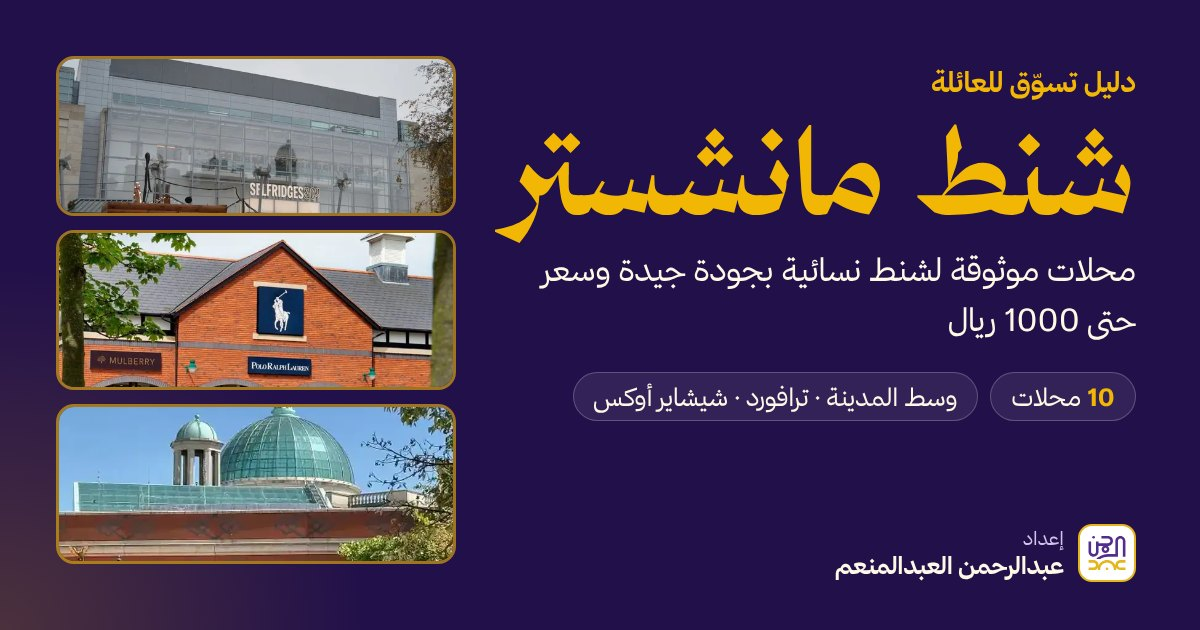
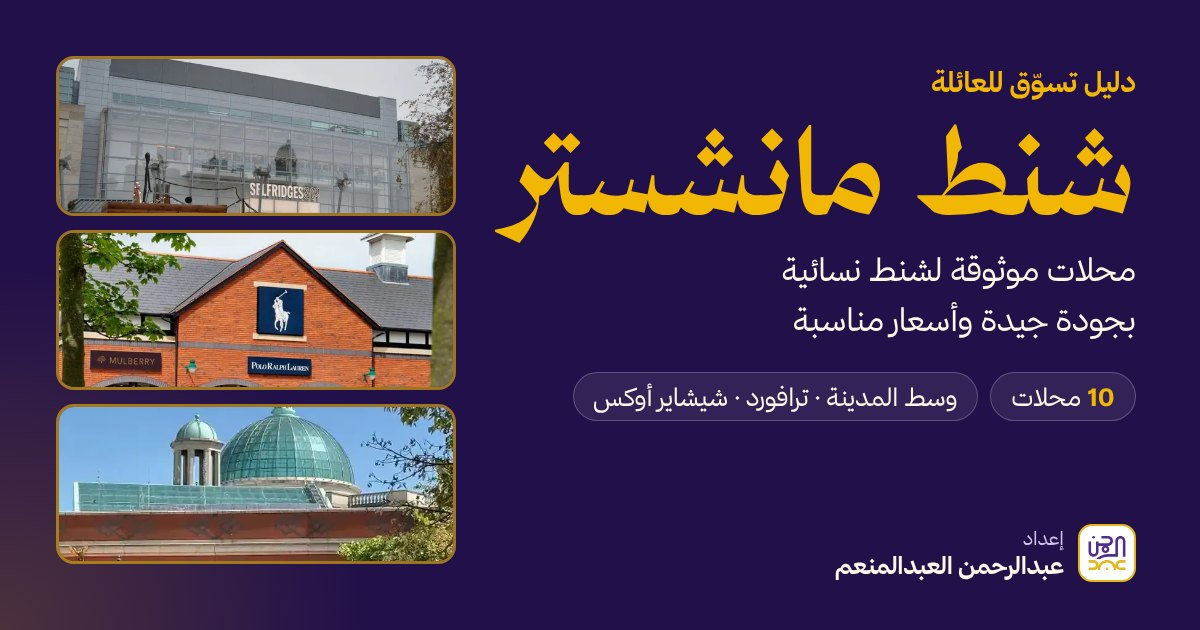
Bags page: drop the 1000 SAR cap from visible text; neutral price tiers and plain currency converter
Claude-Session: https://claude.ai/code/session_01QH7mzZJjC2cRmrbhNPuopA

Changed region(s): [[0.6475, 0.4825, 0.9558, 0.5429], [0.4317, 0.4222, 0.6475, 0.4524]]

diff --git a/bags/index.html b/bags/index.html
@@ -5,17 +5,17 @@
 <meta name="viewport" content="width=device-width,initial-scale=1,viewport-fit=cover">
 <meta name="robots" content="noindex,nofollow">
 <title>شنط مانشستر</title>
-<meta name="description" content="دليل عائلي لمحلات الشنط النسائية في مانشستر بجودة جيدة وسعر لا يتجاوز 1000 ريال: الأسعار، وكلام الناس، والصور، ورابط الموقع.">
+<meta name="description" content="دليل عائلي لمحلات الشنط النسائية في مانشستر بجودة جيدة وأسعار مناسبة: الأسعار، وكلام الناس، والصور، ورابط الموقع.">
 <meta property="og:title" content="شنط مانشستر · دليل للعائلة">
-<meta property="og:description" content="محلات موثوقة لشنط نسائية بجودة جيدة وسعر حتى 1000 ريال، في وسط مانشستر وترافورد سنتر ومنافذ شيشاير أوكس.">
+<meta property="og:description" content="محلات موثوقة لشنط نسائية بجودة جيدة وأسعار مناسبة، في وسط مانشستر وترافورد سنتر ومنافذ شيشاير أوكس.">
 <meta property="og:type" content="website">
 <meta property="og:url" content="https://alabdmn3m.github.io/manchester/bags/">
-<meta property="og:image" content="https://alabdmn3m.github.io/manchester/bags/og.jpg?v=1">
-<meta property="og:image:secure_url" content="https://alabdmn3m.github.io/manchester/bags/og.jpg?v=1">
+<meta property="og:image" content="https://alabdmn3m.github.io/manchester/bags/og.jpg?v=2">
+<meta property="og:image:secure_url" content="https://alabdmn3m.github.io/manchester/bags/og.jpg?v=2">
 <meta property="og:image:type" content="image/jpeg">
 <meta property="og:image:width" content="1200">
 <meta property="og:image:height" content="630">
-<meta property="og:image:alt" content="غلاف صفحة شنط مانشستر: محلات بجودة جيدة وسعر حتى 1000 ريال">
+<meta property="og:image:alt" content="غلاف صفحة شنط مانشستر: محلات بجودة جيدة وأسعار مناسبة">
 <meta property="og:site_name" content="شنط مانشستر">
 <meta name="twitter:card" content="summary_large_image">
 <meta property="og:locale" content="ar_SA">
@@ -233,7 +233,7 @@ footer{background:var(--hero);color:var(--hero-ink);padding-block:26px}
     <div class="hero-top">
       <div>
         <div class="eyebrow"><b>دليل تسوّق للعائلة</b><span>مانشستر · نوفمبر <span class="num">2026</span></span></div>
-        <h1 class="title">شنط مانشستر<small>محلات موثوقة لشنط نسائية بجودة جيدة وسعر لا يتجاوز <span class="num">1000</span> ريال (نحو <span class="num">£201</span>)، في وسط المدينة وترافورد سنتر ومنافذ شيشاير أوكس.</small></h1>
+        <h1 class="title">شنط مانشستر<small>محلات موثوقة لشنط نسائية بجودة جيدة وأسعار مناسبة، في وسط المدينة وترافورد سنتر ومنافذ شيشاير أوكس.</small></h1>
         <a class="byline" href="#sign" aria-label="إعداد: عبدالرحمن العبدالمنعم"><span class="lgtile" aria-hidden="true"><svg viewBox="318 297 444 413"><use href="#lg-art"/></svg></span><span class="by-t"><small>إعداد</small><b>عبدالرحمن العبدالمنعم</b></span></a>
       </div>
       <svg class="bagart" viewBox="0 0 200 200" role="img" aria-label="شنطة">
@@ -245,7 +245,6 @@ footer{background:var(--hero);color:var(--hero-ink);padding-block:26px}
       </svg>
     </div>
     <div class="facts">
-      <span>الحد: <b class="num">1000</b> ريال ≈ <b class="num">£201</b></span>
       <span>الصرف: <b class="num">£1 = 4.97</b> ريال</span>
       <span><b class="num">10</b> محلات في <b class="num">3</b> مناطق</span>
       <span>آخر تحديث: <b class="num">18</b> نوفمبر <span class="num">2026</span></span>
@@ -258,10 +257,10 @@ footer{background:var(--hero);color:var(--hero-ink);padding-block:26px}
     <div class="sh"><h2 id="v-h">الخلاصة</h2><p>إن كان وقتكم ضيقًا فهذه الثلاثة أولًا</p></div>
     <div class="verdict">
       <div class="box pick"><span class="rk num">1</span><h3>لونشان «لو بلياج» في سيلفريدجز</h3><p class="why">أوضح قيمة في وسط المدينة: شنطة عملية خفيفة تُطوى، سعرها ثابت ومعلن، والمحل على بعد مشي.</p><div class="pr">من <span class="num">£85</span> إلى <span class="num">£145</span> (نحو <span class="num">420</span> إلى <span class="num">720</span> ريال)</div></div>
-      <div class="box pick"><span class="rk num">2</span><h3>رادلي في منفذ شيشاير أوكس</h3><p class="why">ماركة إنجليزية بجلد جيد، وأعلى تقييم في القائمة (<span class="num">4.6</span>)، ومعظم شنطها المخفضة ضمن الحد.</p><div class="pr">غالبًا من <span class="num">£100</span> إلى <span class="num">£200</span> مخفّضة</div></div>
-      <div class="box pick"><span class="rk num">3</span><h3>منافذ كوتش ومايكل كورس وكيت سبيد</h3><p class="why">في شيشاير أوكس أيضًا. الماركات الأمريكية فوق الحد بسعرها الكامل، ولا تدخل الميزانية إلا بخصم المنافذ.</p><div class="pr">بعضها ضمن الحد، فقارن قبل الشراء</div></div>
+      <div class="box pick"><span class="rk num">2</span><h3>رادلي في منفذ شيشاير أوكس</h3><p class="why">ماركة إنجليزية بجلد جيد، وأعلى تقييم في القائمة (<span class="num">4.6</span>)، وأسعارها المخفّضة مناسبة.</p><div class="pr">غالبًا من <span class="num">£100</span> إلى <span class="num">£200</span> مخفّضة</div></div>
+      <div class="box pick"><span class="rk num">3</span><h3>منافذ كوتش ومايكل كورس وكيت سبيد</h3><p class="why">في شيشاير أوكس أيضًا. الماركات الأمريكية أوفر بكثير في المنافذ منها في المحلات العادية.</p><div class="pr">خصومات متفاوتة، فقارنوا قبل الشراء</div></div>
     </div>
-    <div class="avoid"><svg class="ico"><use href="#i-alert"/></svg><div><b>تنبيه:</b> شنط كوتش ومايكل كورس بسعرها الكامل في وسط المدينة وترافورد تبدأ غالبًا من <span class="num">£214</span> إلى <span class="num">£230</span> (أكثر من <span class="num">1060</span> ريال)، فهي فوق الحد إلا في التخفيضات. ومَلبري فوق الحد حتى في المنفذ.</div></div>
+    <div class="avoid"><svg class="ico"><use href="#i-alert"/></svg><div><b>للمقارنة:</b> شنط كوتش ومايكل كورس بسعرها الكامل في وسط المدينة وترافورد تبدأ غالبًا من <span class="num">£214</span> إلى <span class="num">£230</span>، والمنافذ أوفر منها. ومَلبري أعلى سعرًا حتى في المنفذ.</div></div>
   </section>
 
   <section aria-labelledby="r-h">
@@ -270,21 +269,20 @@ footer{background:var(--hero);color:var(--hero-ink);padding-block:26px}
   </section>
 
   <section aria-labelledby="c-h">
-    <div class="sh"><h2 id="c-h">حاسبة الميزانية</h2><p>اكتبوا سعر البطاقة بالجنيه</p></div>
+    <div class="sh"><h2 id="c-h">محوّل العملة</h2><p>اكتبوا سعر البطاقة بالجنيه</p></div>
     <div class="box conv">
       <label for="gbp">السعر £</label>
       <input id="gbp" type="number" inputmode="decimal" min="0" step="1" value="145">
       <span>=</span><output id="sar" for="gbp" class="num">721 ريال</output>
-      <div class="bar" id="bar"><i></i></div>
-      <p class="hint" id="hint">ضمن الحد، ويتبقى <span class="num">279</span> ريال.</p>
+      <p class="hint">بسعر <span class="num">£1 = 4.97</span> ريال؛ البطاقات البنكية تضيف عادة <span class="num">1</span> إلى <span class="num">3</span>%.</p>
     </div>
   </section>
 
   <section aria-labelledby="s-h">
-    <div class="sh"><h2 id="s-h">المحلات</h2><p>مرتبة من الأنسب للميزانية</p></div>
+    <div class="sh"><h2 id="s-h">المحلات</h2><p>مرتبة من الأوفر سعرًا</p></div>
     <div class="tools" role="group" aria-label="تصفية المحلات">
       <div class="chips" id="areaChips"><span class="lbl">المكان:</span></div>
-      <div class="chips" id="fitChips"><span class="lbl">الميزانية:</span><span class="count" id="count" aria-live="polite"></span></div>
+      <div class="chips" id="fitChips"><span class="lbl">السعر:</span><span class="count" id="count" aria-live="polite"></span></div>
     </div>
     <div class="grid" id="grid"></div>
   </section>
@@ -306,7 +304,7 @@ footer{background:var(--hero);color:var(--hero-ink);padding-block:26px}
     <details class="box">
       <summary id="d-h">عن البيانات والمصادر</summary>
       <ul class="src-list">
-        <li>الحد <span class="num">1000</span> ريال محسوب بسعر <span class="num">4.97</span> ريال للجنيه (سعر السوق في 13 نوفمبر 2026، كما في دليل مانشستر). البطاقات البنكية تضيف عادة <span class="num">1</span> إلى <span class="num">3</span>%.</li>
+        <li>التحويل للريال بسعر <span class="num">4.97</span> ريال للجنيه (سعر السوق في 13 نوفمبر 2026، كما في دليل مانشستر). البطاقات البنكية تضيف عادة <span class="num">1</span> إلى <span class="num">3</span>%.</li>
         <li>التقييم وعدد المراجعات ومواعيد العمل من خرائط Google في <span class="num">18</span> نوفمبر <span class="num">2026</span>، و«كلام الناس» ملخص بتصرف من المراجعات.</li>
         <li>الأسعار من مواقع الماركات والمتاجر في <span class="num">18</span> نوفمبر <span class="num">2026</span>: <a href="https://www.longchamp.com/gb/en/le-pliage/" target="_blank" rel="noopener">لونشان</a>، <a href="https://www.michaelkors.co.uk/women/handbags/" target="_blank" rel="noopener">مايكل كورس</a>، <a href="https://www.kurtgeiger.com/women/bags" target="_blank" rel="noopener">كيرت جايجر</a>، <a href="https://www.houseoffraser.co.uk/bags-and-luggage/handbags/radley" target="_blank" rel="noopener">رادلي لدى House of Fraser</a>، <a href="https://www.pricerunner.com/sp/coach-tabby.html" target="_blank" rel="noopener">كوتش (PriceRunner)</a>، <a href="https://www.mcarthurglen.com/en/outlets/uk/designer-outlet-cheshire-oaks/offers/kate-spade-product-2/" target="_blank" rel="noopener">عرض كيت سبيد في شيشاير أوكس</a>، <a href="https://www.tkmaxx.com/uk/en/how-we-do-it" target="_blank" rel="noopener">تي كي ماكس</a>.</li>
         <li>أسعار المنافذ تتغير يوميًا ولا تنشرها الماركات، فما وُصف بـ«تقدير» مأخوذ من المراجعات والعروض المنشورة لا من قائمة أسعار.</li>
@@ -326,10 +324,10 @@ footer{background:var(--hero);color:var(--hero-ink);padding-block:26px}
 
 <script>
 (() => {
-  const RATE = 4.97, LIMIT = 1000;
+  const RATE = 4.97;
   const sar = g => Math.round(g * RATE);
   const AREAS = { city: 'وسط المدينة', trafford: 'ترافورد سنتر', oaks: 'منافذ شيشاير أوكس' };
-  const FIT = { in: 'ضمن الميزانية', part: 'بعضها ضمن الميزانية', over: 'غالبًا فوق الميزانية' };
+  const FIT = { in: 'سعر في المتناول', part: 'أسعار متفاوتة', over: 'سعر أعلى' };
   const MAP = id => `https://www.google.com/maps/search/?api=1&query=Google&query_place_id=${id}`;
   const IMG = {
     selfridges: { f: 'e902248eed96', c: 'سيلفريدجز في Exchange Square', a: 'N Chadwick', l: 'CC BY-SA 2.0', u: 'https://commons.wikimedia.org/wiki/File:Selfridges,_Exchange_Square_-_geograph.org.uk_-_5684368.jpg', p: '57% 50%' },
@@ -361,7 +359,7 @@ footer{background:var(--hero);color:var(--hero-ink);padding-block:26px}
       hours: 'مواعيد المركز: الإثنين إلى الجمعة 10:00–21:00، والسبت 09:00–21:00، والأحد 09:00–19:00', go: 'نحو ساعة بالسيارة أو أوبر (قرابة 60 كم)', addr: 'Kinsey Road, Ellesmere Port', place: 'ChIJQZ5FEP_dekgR3Hz2LHuHmK4', site: 'https://www.radleylondon.com/' },
     { id: 'kurt', ll: [53.484223,-2.241173], hrs: [[690,1050],[540,1200],[540,1200],[540,1200],[540,1200],[540,1200],[540,1140]], short: 'Kensington الصغيرة من £169 إلى £189', ar: 'كيرت جايجر', en: 'Kurt Geiger London · Arndale', area: 'city', fit: 'part', ord: 4, img: 'arndale',
       rate: [3.2, 28],
-      price: '9 من أول 15 شنطة في الموقع ضمن الحد: <b>Kensington الصغيرة</b> من <span class="num">£169</span> إلى <span class="num">£189</span>، وChelsea بـ<span class="num">£159</span>. والكبيرة حتى <span class="num">£329</span>.', psrc: 'موقع كيرت جايجر الرسمي', pv: 'مؤكد',
+      price: 'أكثر شنطه بين <span class="num">£159</span> و<span class="num">£219</span>: <b>Kensington الصغيرة</b> من <span class="num">£169</span> إلى <span class="num">£189</span>، وChelsea بـ<span class="num">£159</span>. والكبيرة حتى <span class="num">£329</span>.', psrc: 'موقع كيرت جايجر الرسمي', pv: 'مؤكد',
       pos: ['زوار مدحوا موظفين بأسمائهم وترتيب المحل.', 'وجدوا ما يبحثون عنه بسرعة.'], neg: ['شكاوى من تعامل سيئ لبعض الموظفين قرب وقت الإغلاق.'],
       tip: 'تصاميم لافتة بشعار النسر وكريستال؛ مناسبة للمناسبات أكثر من الاستعمال اليومي. اذهبوا في أول النهار لا قبل الإغلاق.',
       hours: 'الإثنين إلى الجمعة 09:00–20:00، والسبت 09:00–19:00، والأحد 11:30–17:30', go: 'نحو 31 دقيقة مشيًا من الفندق، داخل أرنديل', addr: 'Unit L8, Manchester Arndale', place: 'ChIJ0Wql2vixe0gRVV5KfaRUcIg', site: 'https://www.kurtgeiger.com/women/bags' },
@@ -371,33 +369,33 @@ footer{background:var(--hero);color:var(--hero-ink);padding-block:26px}
       pos: ['موظفات لطيفات يعرفن المنتجات ويعرضن الخيارات دون ضغط.'], neg: ['بعض الزوار وجدوا المتابعة مُلحّة وهم يعرفون ما يريدون.'],
       tip: 'ألوان مبهجة وتصاميم أنيقة صغيرة. اسألوا عن العرض الإضافي على سعر المنفذ، فالخصم الأكبر يأتي منه.',
       hours: 'الإثنين إلى الخميس 10:00–20:00، والجمعة والسبت 09:00–21:00، والأحد 10:00–18:00', go: 'نحو ساعة بالسيارة أو أوبر', addr: 'Unit 168, Kinsey Road, Ellesmere Port', place: 'ChIJawJvCdvdekgRoFh5pqxwC58', site: 'https://www.katespade.co.uk/' },
-    { id: 'mko', ll: [53.2667995,-2.8816806], hrs: [[660,1020],[600,1200],[600,1200],[600,1200],[600,1200],[600,1200],[540,1260]], short: 'أسعار المنفذ، وبعضها ضمن الحد', ar: 'مايكل كورس (منفذ)', en: 'Michael Kors Outlet · Cheshire Oaks', area: 'oaks', fit: 'part', ord: 6, img: 'oaks',
+    { id: 'mko', ll: [53.2667995,-2.8816806], hrs: [[660,1020],[600,1200],[600,1200],[600,1200],[600,1200],[600,1200],[540,1260]], short: 'أسعار المنفذ أوفر من المحلات', ar: 'مايكل كورس (منفذ)', en: 'Michael Kors Outlet · Cheshire Oaks', area: 'oaks', fit: 'part', ord: 6, img: 'oaks',
       rate: [4.4, 435],
-      price: 'أسعار أقل بوضوح من المحلات بحسب الزوار، وبعض الشنط ضمن الحد (تقدير). للمقارنة: أرخص شنطة في الموقع الرسمي <span class="num">£230</span>.', psrc: 'المراجعات، وموقع مايكل كورس', pv: 'تقدير',
+      price: 'أسعار أقل بوضوح من المحلات بحسب الزوار، وكثير منها بأسعار مناسبة (تقدير). للمقارنة: أرخص شنطة في الموقع الرسمي <span class="num">£230</span>.', psrc: 'المراجعات، وموقع مايكل كورس', pv: 'تقدير',
       pos: ['ترحيب منذ الدخول، والمعروض نظيف ومرتب.', 'توفير كبير مقارنة بالسعر الأصلي.'], neg: ['بعض الموظفين يلاحقون الزبون عن قرب.', 'زائر ذكر أن المتاح استبدال فقط لا استرداد.'],
       tip: 'أكبر منفذ للماركة قرب مانشستر وأعلى تقييم بعدد مراجعات كبير. تأكدوا من سياسة الإرجاع قبل الدفع.',
       hours: 'الإثنين إلى الجمعة 10:00–20:00، والسبت 09:00–21:00، والأحد 11:00–17:00', go: 'نحو ساعة بالسيارة أو أوبر', addr: 'Unit 150, Kinsey Road, Ellesmere Port', place: 'ChIJ5-Cq6PvdekgRGrGCeg0bPGg', site: 'https://www.michaelkors.co.uk/' },
-    { id: 'coacho', ll: [53.2659401,-2.8820916], hrs: [[600,1080],[600,1200],[600,1200],[600,1200],[600,1200],[540,1260],[540,1260]], short: 'أسعار المنفذ، وبعضها ضمن الحد', ar: 'كوتش (منفذ)', en: 'Coach Outlet · Cheshire Oaks', area: 'oaks', fit: 'part', ord: 7, img: 'oaks',
+    { id: 'coacho', ll: [53.2659401,-2.8820916], hrs: [[600,1080],[600,1200],[600,1200],[600,1200],[600,1200],[540,1260],[540,1260]], short: 'أسعار المنفذ أوفر من المحلات', ar: 'كوتش (منفذ)', en: 'Coach Outlet · Cheshire Oaks', area: 'oaks', fit: 'part', ord: 7, img: 'oaks',
       rate: [4.2, 203],
-      price: 'خارج المنافذ تبدأ شنط Tabby من نحو <span class="num">£214</span> (فوق الحد). في المنفذ خصومات تُدخل بعض الشنط ضمن الحد (تقدير).', psrc: 'PriceRunner، والمراجعات', pv: 'تقدير',
+      price: 'خارج المنافذ تبدأ شنط Tabby من نحو <span class="num">£214</span> . في المنفذ خصومات تخفّض كثيرًا منها (تقدير).', psrc: 'PriceRunner، والمراجعات', pv: 'تقدير',
       pos: ['تشكيلة كبيرة ومختلفة عن منافذ أخرى.', 'موظفات غلّفن المشتريات بعناية.'], neg: ['شكاوى من ضعف خدمة ما بعد البيع والضمان.', 'الخدمة متفاوتة في الزحام.'],
       tip: 'قارنوا بين شنط المنفذ والخط الأساسي في الخامة والتفاصيل، واحتفظوا بالفاتورة للضمان.',
       hours: 'الإثنين إلى الخميس 10:00–20:00، والجمعة والسبت 09:00–21:00، والأحد 10:00–18:00', go: 'نحو ساعة بالسيارة أو أوبر', addr: 'Unit 165, Kinsey Road, Ellesmere Port', place: 'ChIJdd097_7dekgRmEqKW8eA-yk', site: 'https://uk.coach.com/' },
-    { id: 'selft', ll: [53.4663515,-2.3473739], hrs: [[690,1080],[600,1320],[600,1320],[600,1320],[600,1320],[600,1320],[600,1260]], short: 'ماركات متعددة، واسألوا عما تحت £200', ar: 'سيلفريدجز ترافورد', en: 'Selfridges · Trafford Centre', area: 'trafford', fit: 'part', ord: 8, img: 'tpath',
+    { id: 'selft', ll: [53.4663515,-2.3473739], hrs: [[690,1080],[600,1320],[600,1320],[600,1320],[600,1320],[600,1320],[600,1260]], short: 'ماركات متعددة بأسعار متفاوتة', ar: 'سيلفريدجز ترافورد', en: 'Selfridges · Trafford Centre', area: 'trafford', fit: 'part', ord: 8, img: 'tpath',
       rate: [4.3, 4986],
-      price: 'قاعة إكسسوارات كبيرة فيها ماركات بأسعار متفاوتة؛ بعضها ضمن الحد وكثير منها فوقه. اسألوا عن الشنط تحت <span class="num">£200</span>.', psrc: 'وصف المتجر والمراجعات', pv: 'تقدير',
-      pos: ['ماركات كثيرة وطاقم ودود ومحترف.'], neg: ['أغلب المعروض ماركات فاخرة تتجاوز الحد.'],
+      price: 'قاعة إكسسوارات كبيرة فيها ماركات بأسعار متفاوتة؛ بعضها في المتناول وكثير منها فاخر.', psrc: 'وصف المتجر والمراجعات', pv: 'تقدير',
+      pos: ['ماركات كثيرة وطاقم ودود ومحترف.'], neg: ['أغلب المعروض ماركات فاخرة غالية.'],
       tip: 'يناسب من يريد رؤية ماركات كثيرة في مكان واحد ومقارنتها، ثم الشراء من الأنسب سعرًا.',
       hours: 'الإثنين إلى الجمعة 10:00–22:00، والسبت 10:00–21:00، والأحد 11:30–18:00', go: 'أوبر نحو 20 دقيقة من الفندق، أو الترام إلى محطة The Trafford Centre', addr: '60 The Trafford Centre', place: 'ChIJb7hcBYiue0gRjUbi7UUrEmg', site: 'https://www.selfridges.com/GB/en/' },
-    { id: 'mkc', ll: [53.4839375,-2.245084], hrs: null, short: 'من £230، فوق الحد إلا في التخفيضات', ar: 'مايكل كورس (وسط المدينة)', en: 'Michael Kors · New Cathedral Street', area: 'city', fit: 'over', ord: 9, img: 'ncs',
+    { id: 'mkc', ll: [53.4839375,-2.245084], hrs: null, short: 'من £230، وأوفر في التخفيضات', ar: 'مايكل كورس (وسط المدينة)', en: 'Michael Kors · New Cathedral Street', area: 'city', fit: 'over', ord: 9, img: 'ncs',
       rate: [4.4, 55],
-      price: 'أرخص شنطة في الموقع الرسمي اليوم <span class="num">£230</span> (نحو <span class="num">1143</span> ريال)، فهي فوق الحد إلا في التخفيضات.', psrc: 'موقع مايكل كورس الرسمي', pv: 'مؤكد',
+      price: 'أرخص شنطة في الموقع الرسمي اليوم <span class="num">£230</span> (نحو <span class="num">1143</span> ريال)، وتنخفض في التخفيضات.', psrc: 'موقع مايكل كورس الرسمي', pv: 'مؤكد',
       pos: ['طاقم مرحِّب لا يُشعر الزائر بالحرج.', 'المديرة بحثت عن شنطة في فرع آخر وأمّنتها.'], neg: ['زائر شكّ في «خصم 15%» عرضته موظفة.'],
       tip: 'مناسب للمعاينة ومعرفة المقاس واللون، ثم الشراء من المنفذ بسعر أقل.',
       hours: 'راجعوا الخريطة', go: 'نحو 31 دقيقة مشيًا من الفندق', addr: '5 New Cathedral Street', place: 'ChIJN-YeIsSxe0gRDd1CrXqnG5Q', site: 'https://www.michaelkors.co.uk/' },
-    { id: 'mkt', ll: [53.465543,-2.3502821], hrs: [[720,1080],[600,1320],[600,1320],[600,1320],[600,1320],[600,1320],[600,1260]], short: 'من £230، فوق الحد إلا في التخفيضات', ar: 'مايكل كورس (ترافورد)', en: 'Michael Kors · Trafford Centre', area: 'trafford', fit: 'over', ord: 10, img: 'tdome',
+    { id: 'mkt', ll: [53.465543,-2.3502821], hrs: [[720,1080],[600,1320],[600,1320],[600,1320],[600,1320],[600,1320],[600,1260]], short: 'من £230، وأوفر في التخفيضات', ar: 'مايكل كورس (ترافورد)', en: 'Michael Kors · Trafford Centre', area: 'trafford', fit: 'over', ord: 10, img: 'tdome',
       rate: [4.6, 136],
-      price: 'الأسعار نفسها في الموقع الرسمي: من <span class="num">£230</span>، فهي فوق الحد إلا في التخفيضات.', psrc: 'موقع مايكل كورس الرسمي', pv: 'مؤكد',
+      price: 'الأسعار نفسها في الموقع الرسمي: من <span class="num">£230</span>، وتنخفض في التخفيضات.', psrc: 'موقع مايكل كورس الرسمي', pv: 'مؤكد',
       pos: ['مراجعات حديثة كثيرة تمدح الطاقم بالأسماء.', 'محل منظم وخدمة مهذبة.'], neg: ['شكوى قديمة من انشغال الموظفين عن الزبائن.'],
       tip: 'إن كنتم في ترافورد فاجمعوا الزيارة مع سيلفريدجز في المكان نفسه.',
       hours: 'الإثنين إلى الجمعة 10:00–22:00، والسبت 10:00–21:00، والأحد 12:00–18:00', go: 'أوبر نحو 20 دقيقة من الفندق', addr: 'Unit 47, The Trafford Centre', place: 'ChIJp6WYt7yue0gRnX2j6fqKpq4', site: 'https://www.michaelkors.co.uk/' }
@@ -442,7 +440,7 @@ footer{background:var(--hero);color:var(--hero-ink);padding-block:26px}
   }
   function tours(){
     const T = [
-      { h: 'وسط المدينة', sub: 'أربعة محلات متقاربة، تبدأ من سيلفريدجز وتنتهي في شارع Market.', ids: ['longchamp', 'mkc', 'kurt', 'tkmaxx'], notes: { mkc: 'للمعاينة فقط؛ السعر فوق الحد' }, mode: 'walking' },
+      { h: 'وسط المدينة', sub: 'أربعة محلات متقاربة، تبدأ من سيلفريدجز وتنتهي في شارع Market.', ids: ['longchamp', 'mkc', 'kurt', 'tkmaxx'], notes: { mkc: 'سعره أعلى؛ مناسب للمعاينة والمقارنة' }, mode: 'walking' },
       { h: 'منافذ شيشاير أوكس', sub: 'نحو ساعة بالسيارة؛ والمحلات الأربعة متقاربة داخل المركز.', ids: ['radley', 'mko', 'kate', 'coacho'], notes: {}, mode: 'walking' }
     ];
     $('#tours').innerHTML = T.map(t => {
@@ -480,16 +478,13 @@ footer{background:var(--hero);color:var(--hero-ink);padding-block:26px}
     el.querySelectorAll('.chip').forEach(b => b.onclick = () => { st[key] = b.dataset.v; el.querySelectorAll('.chip').forEach(c => c.setAttribute('aria-pressed', c === b)); render(); });
   }
   chips($('#areaChips'), 'area', [['all', 'الكل'], ['city', AREAS.city], ['trafford', AREAS.trafford], ['oaks', AREAS.oaks]]);
-  chips($('#fitChips'), 'fit', [['all', 'الكل'], ['ok', 'ضمن الميزانية أو بعضها'], ['in', 'ضمن الميزانية فقط'], ['fav', '★ قائمتي']]);
+  chips($('#fitChips'), 'fit', [['all', 'الكل'], ['in', 'في المتناول'], ['fav', '★ قائمتي']]);
   render(); favCount(); tours();
   if (location.hash.length > 1) setTimeout(() => goTo(decodeURIComponent(location.hash.slice(1))), 300);
   const inp = $('#gbp');
   function conv(){
-    const g = Math.max(0, parseFloat(inp.value) || 0), r = sar(g), over = r > LIMIT;
-    $('#sar').textContent = `${r.toLocaleString('en-US')} ريال`;
-    $('#bar').classList.toggle('over', over);
-    $('#bar i').style.width = Math.min(100, r / LIMIT * 100) + '%';
-    $('#hint').innerHTML = !g ? 'اكتبوا السعر لتروا أين يقع من الحد.' : over ? `فوق الحد بـ<span class="num">${(r - LIMIT).toLocaleString('en-US')}</span> ريال.` : `ضمن الحد، ويتبقى <span class="num">${(LIMIT - r).toLocaleString('en-US')}</span> ريال.`;
+    const g = Math.max(0, parseFloat(inp.value) || 0);
+    $('#sar').textContent = `${sar(g).toLocaleString('en-US')} ريال`;
   }
   inp.oninput = conv; conv();
 })();
